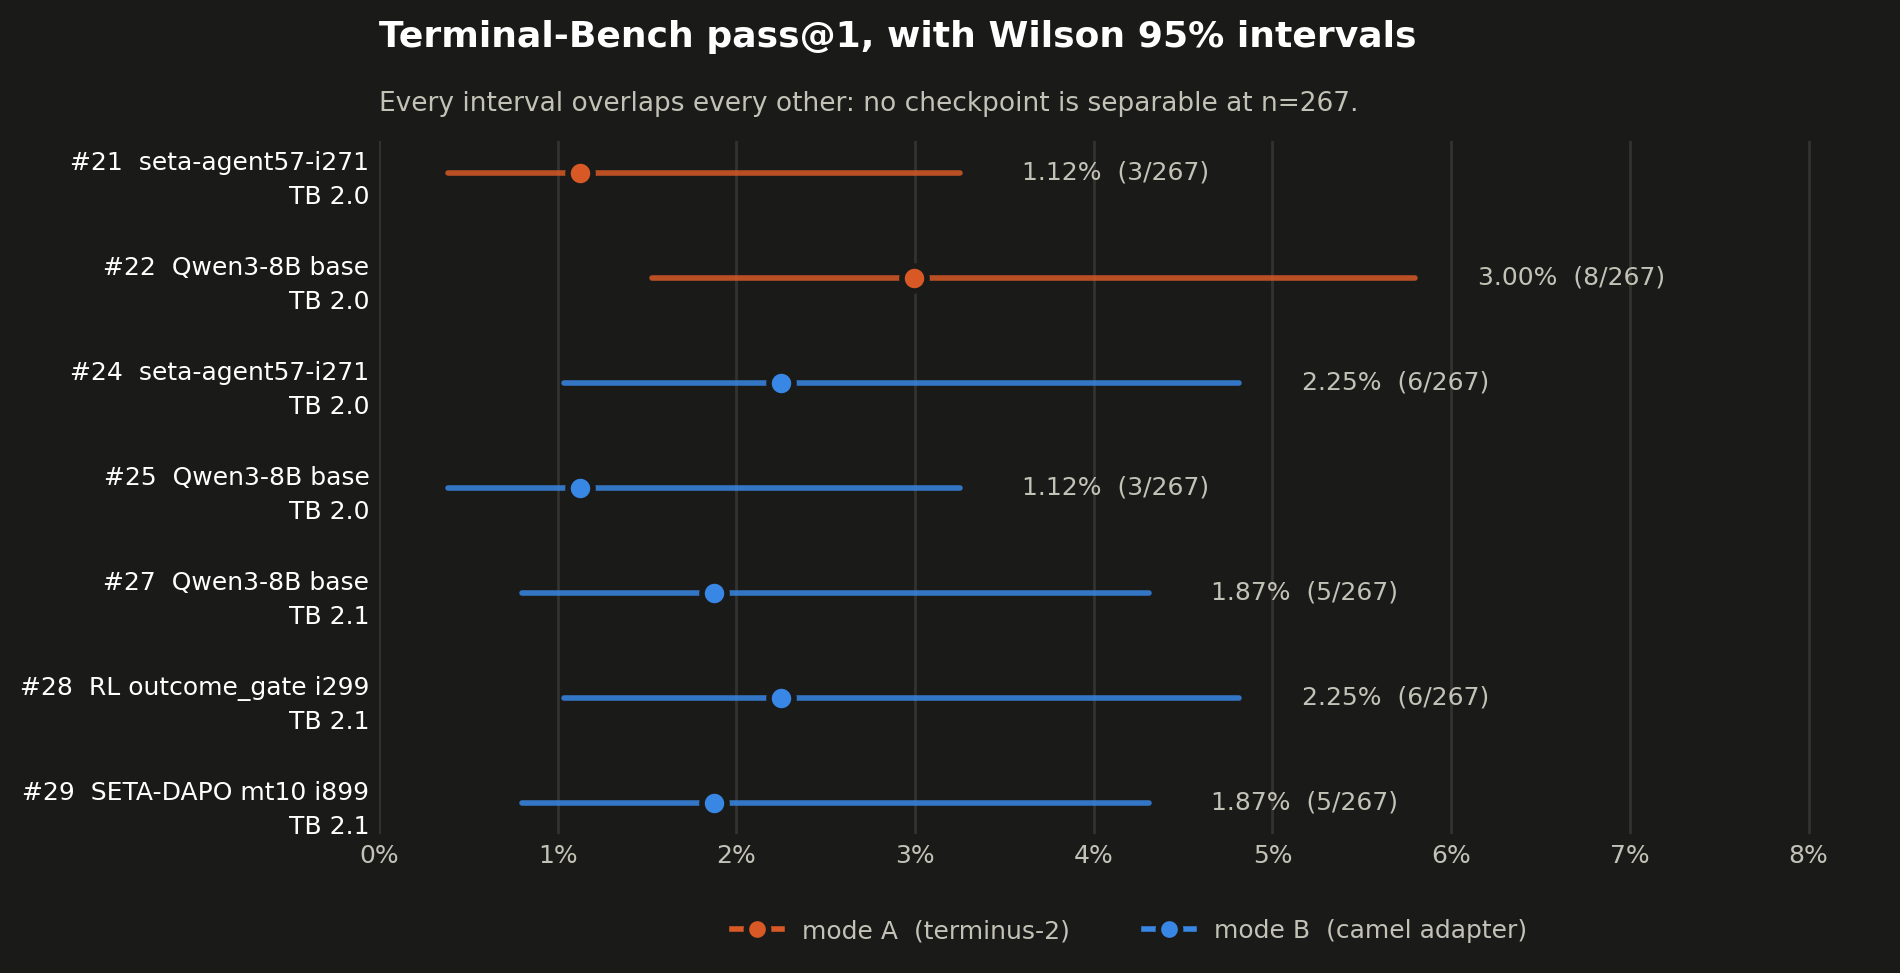
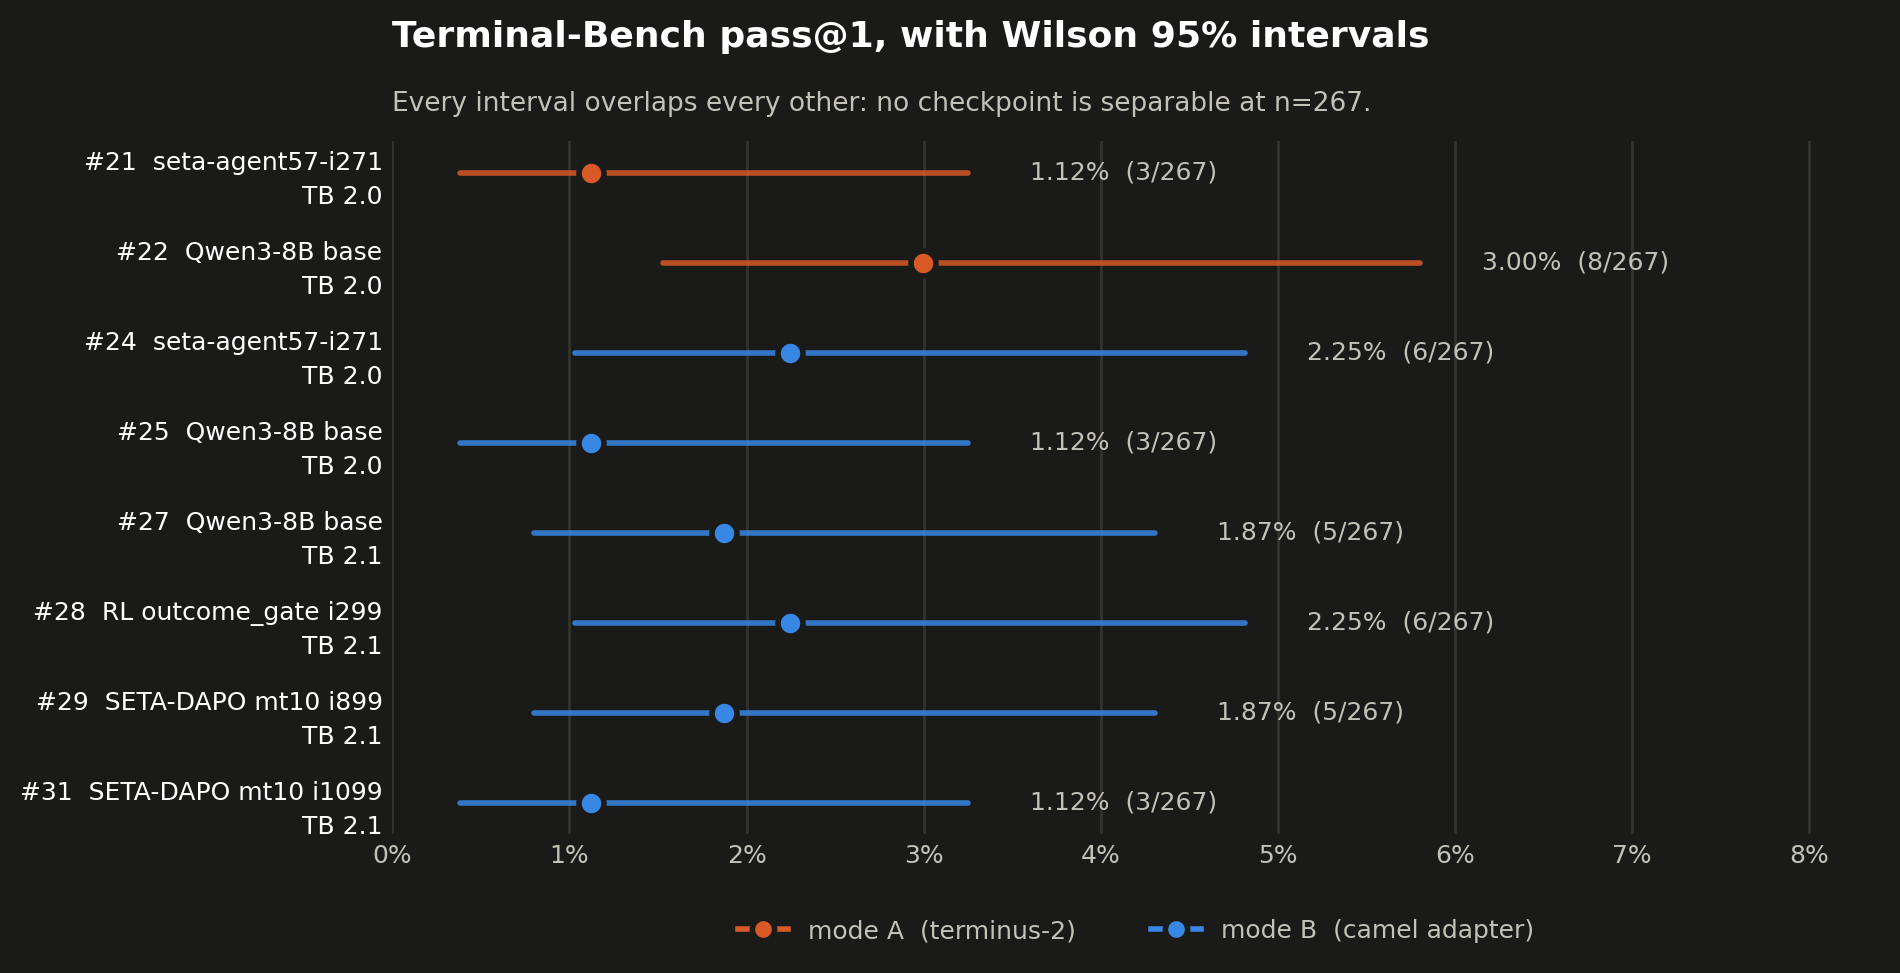
docs(zsa): add issue #31 to the mode B eval history
#31 (TBv2.1 x SETA-DAPO mt10 iter1099, pass@1 3/267) is a mode B full eval
run with the archived adapter -- its config table records SHA256
70f7976802f1..., the same file this branch archives -- so leaving it out of
the history table and the interval figure made the seven-eval set look
arbitrary. Every interval still overlaps every other after adding it.

diff --git a/terminal-rl/tests/test_openclaw_camel_adapter.py b/terminal-rl/tests/test_openclaw_camel_adapter.py
@@ -97,7 +97,7 @@ def test_aligned_knob_defaults_match_the_recorded_evals():
 def test_sampling_params_carry_exactly_the_knobs_that_reach_sglang():
     """rollout_seed is metadata only, so the payload must not imply seeded sampling.
 
-    top_k is omitted rather than sent as -1, matching the seven recorded evals.
+    top_k is omitted rather than sent as -1, matching the eight recorded evals.
     """
     params = _agent()._build_sampling_params()
     assert params == {
@@ -379,7 +379,7 @@ def test_eval_history_rows_match_the_documented_pass_at_1():
     """Keeps the figure's table and the doc's table from drifting apart."""
     documented = {
         "#21": (3, 267), "#22": (8, 267), "#24": (6, 267), "#25": (3, 267),
-        "#27": (5, 267), "#28": (6, 267), "#29": (5, 267),
+        "#27": (5, 267), "#28": (6, 267), "#29": (5, 267), "#31": (3, 267),
     }
     assert {e.issue: (e.successes, e.trials) for e in history_plot.EVALS} == documented
 

diff --git a/terminal-rl/scripts/plot_modeb_eval_history.py b/terminal-rl/scripts/plot_modeb_eval_history.py
@@ -1,7 +1,7 @@
 #!/usr/bin/env python3
 """Plot recorded Terminal-Bench pass@1 with Wilson 95% intervals.
 
-The point of the figure is the overlap. Reporting seven point estimates in a
+The point of the figure is the overlap. Reporting eight point estimates in a
 table invites reading a 1.12% and a 3.00% as different; at n=267 with single
 digit success counts they are not separable, and drawing the intervals is the
 cheapest way to keep that in view.
@@ -59,6 +59,7 @@ EVALS = [
     Eval("#27", "Qwen3-8B base", "TB 2.1", "B", 5, 267),
     Eval("#28", "RL outcome_gate i299", "TB 2.1", "B", 6, 267),
     Eval("#29", "SETA-DAPO mt10 i899", "TB 2.1", "B", 5, 267),
+    Eval("#31", "SETA-DAPO mt10 i1099", "TB 2.1", "B", 3, 267),
 ]
 
 
